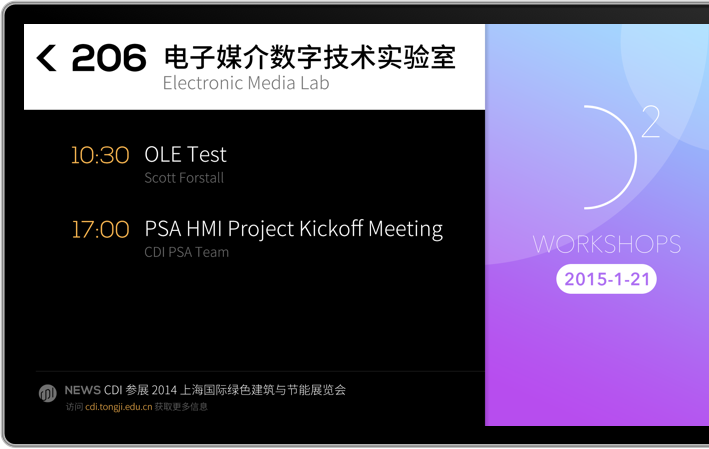
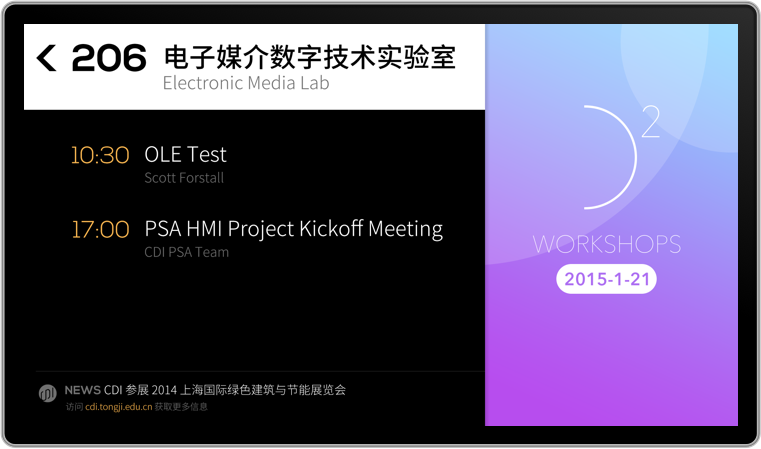
fix digital guide page layout issue

diff --git a/css/works.digital.guide.css b/css/works.digital.guide.css
@@ -1,5 +1,6 @@
 .digital-guide-banner {
     /* Rectangle: */
+    overflow: hidden;
     display: block;
     position: relative;
     background-image: white;
@@ -23,6 +24,7 @@
 
 .digital-guide-installation-structure {
     /* Rectangle: */
+    overflow: hidden;
     display: block;
     position: relative;
     background-image: white;
